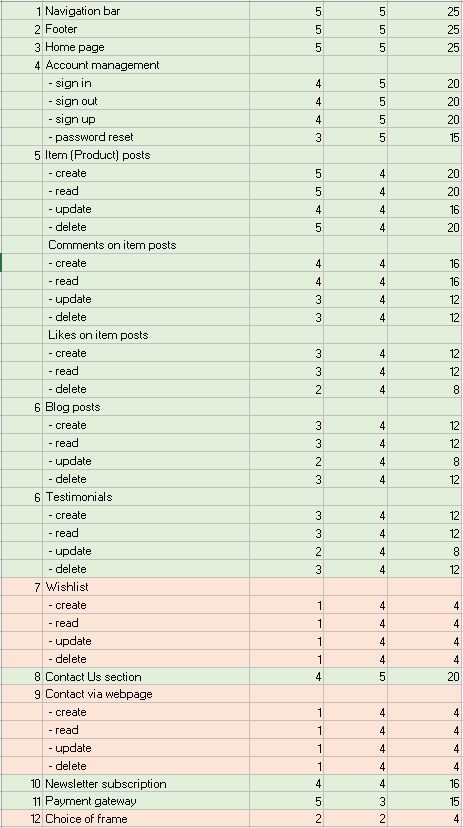
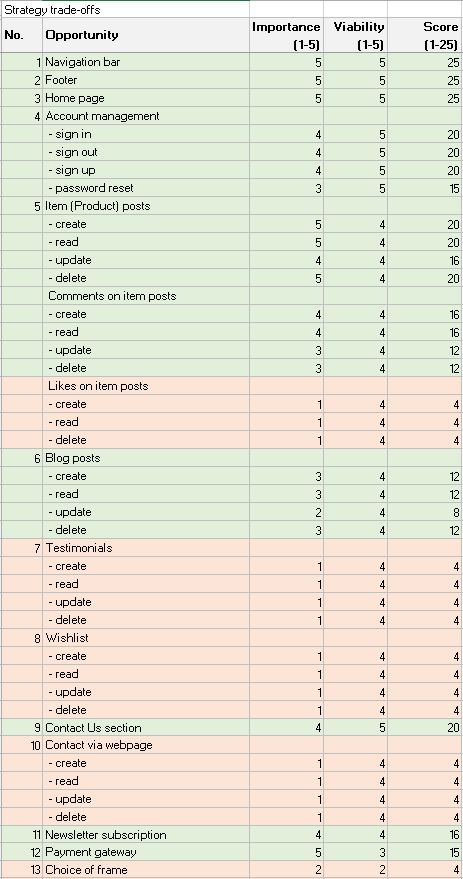
Add Strategy tradeoffs and Data schema diagram in README

Changed region(s): [[0.0, 0.0, 1.0, 0.9964]]

diff --git a/README.md b/README.md
@@ -104,7 +104,7 @@ Registered users
 
 1.1 As a **site user** I can **access site without logging in** so that I can **view content of the webpage**.
 
-1.2 As a **site user** I can **register** so that **I have access to personalized service**.
+1.2 As a **site user** I can **register** so that **I can reuse once entered information**.
 
 1.3 As a **site user** I can **log in using my username and password** so that I can **reuse once entered personal information**.
 
@@ -114,7 +114,9 @@ Registered users
 
 1.6 As a **site user** I receive **confirmation of logging in and logging out visible on webpage** so that I **instantly know if the operation was successful**.
 
-1.7 As a **site user** I can **enter my details once** so that I can **reuse them at any time**.
+1.7 As a **site user** I can **reset my password** so that I can **safely remain the website's registered user**.
+
+1.8 As a **site user** I can **read webpage's privacy policy** so that I can **know if my personal information is safe**.
 
 
 ### **2. Epic: Navigation**
@@ -138,7 +140,9 @@ Registered users
 
 3.3 As a **registered site user** I can **use website without having to re-enter my details** so that **my activity on the site requires minimum afford from my side**.
 
-3.4 As a **site user** I can **see imediately information about newest content** so I can **go directly to that content should I wish to do so**. 
+3.4 As a **site user** I can **see imediately information about newest content** so I can **go directly to that content should I wish to do so**.
+
+3.5 As a **site user** I can **change the language of the site by an automatic translator** so that I can **read the content in a different language**.
 
 
 ### **4. Epic: Offer**
@@ -200,7 +204,7 @@ Features with high and medium score between 8 and 25 points on scale 1-25 have b
 
 ## 1.iii. Structure <a name='structure'></a>
 
-## Website templates
+## Website templates TODO
 
 Templates are structured into the files listed below. Base template is used for the entire site for consistency and ease in user experience.
 Templates are placed in the folder templates and its subfolders.
@@ -229,11 +233,10 @@ Templates are placed in the folder templates and its subfolders.
 Code is built with utilization of Django framework into apps, files and folders listed below.
 
 ### Apps
-- accounts - functionality for managing users accounts.
-- blog - functionality designed for managing blogs, in this project used to manage posts on treatments being on offer. This includes posts, comments and likes.
-- booking - functionality for registered users for receiving requests for treatments on a date and time of user's choice.
-- contact - functionality for managing general queries from users.
-- poll - functionality for simple polls aiming at gathering ad hoc information on current topics from users and enhancing user engagement.
+- profiles - functionality for managing user profiles.
+- gallery - functionality designed for managing blogs, in this project used to manage posts with paintings being on offer. This includes posts and comments.
+- blog - functionality for Artirt's personal blog.
+- checkout - functionality for online sales transactions.
 
 ### Files
 Files for running specific apps:
@@ -256,7 +259,7 @@ Common files:
 - README.md - project's documentation.
 
 ### Folders
-- physioproject - main project for the website.
+- pgpproject - main project for the website.
 - app folders: accounts, blog, booking, contact, poll.
 - helpers - features not being core of the website, contains views for rendering 403, 404 and 500 error pages.
 - readme - contains files necessary for Readme document to show all of its intended content.
@@ -265,7 +268,7 @@ Common files:
 
 ## Data schema
 
-**Database**
+**Database** [#2](https://github.com/KarMiles/polish-girl-painting/issues/2)TODO
 
 A relational database was used for this project. 
 
@@ -276,10 +279,6 @@ During development process SQLite DB was initially used, then Postgres. For prod
 **Data schema diagram**
 
 ![screenshot of data schema](readme/docs/images/database/data_schema.jpg)
-
-Note:
-- User - Post.likes is many-to-many relationship.
-- Post.featured_image is a CloudinaryField.
 
 ---
 
